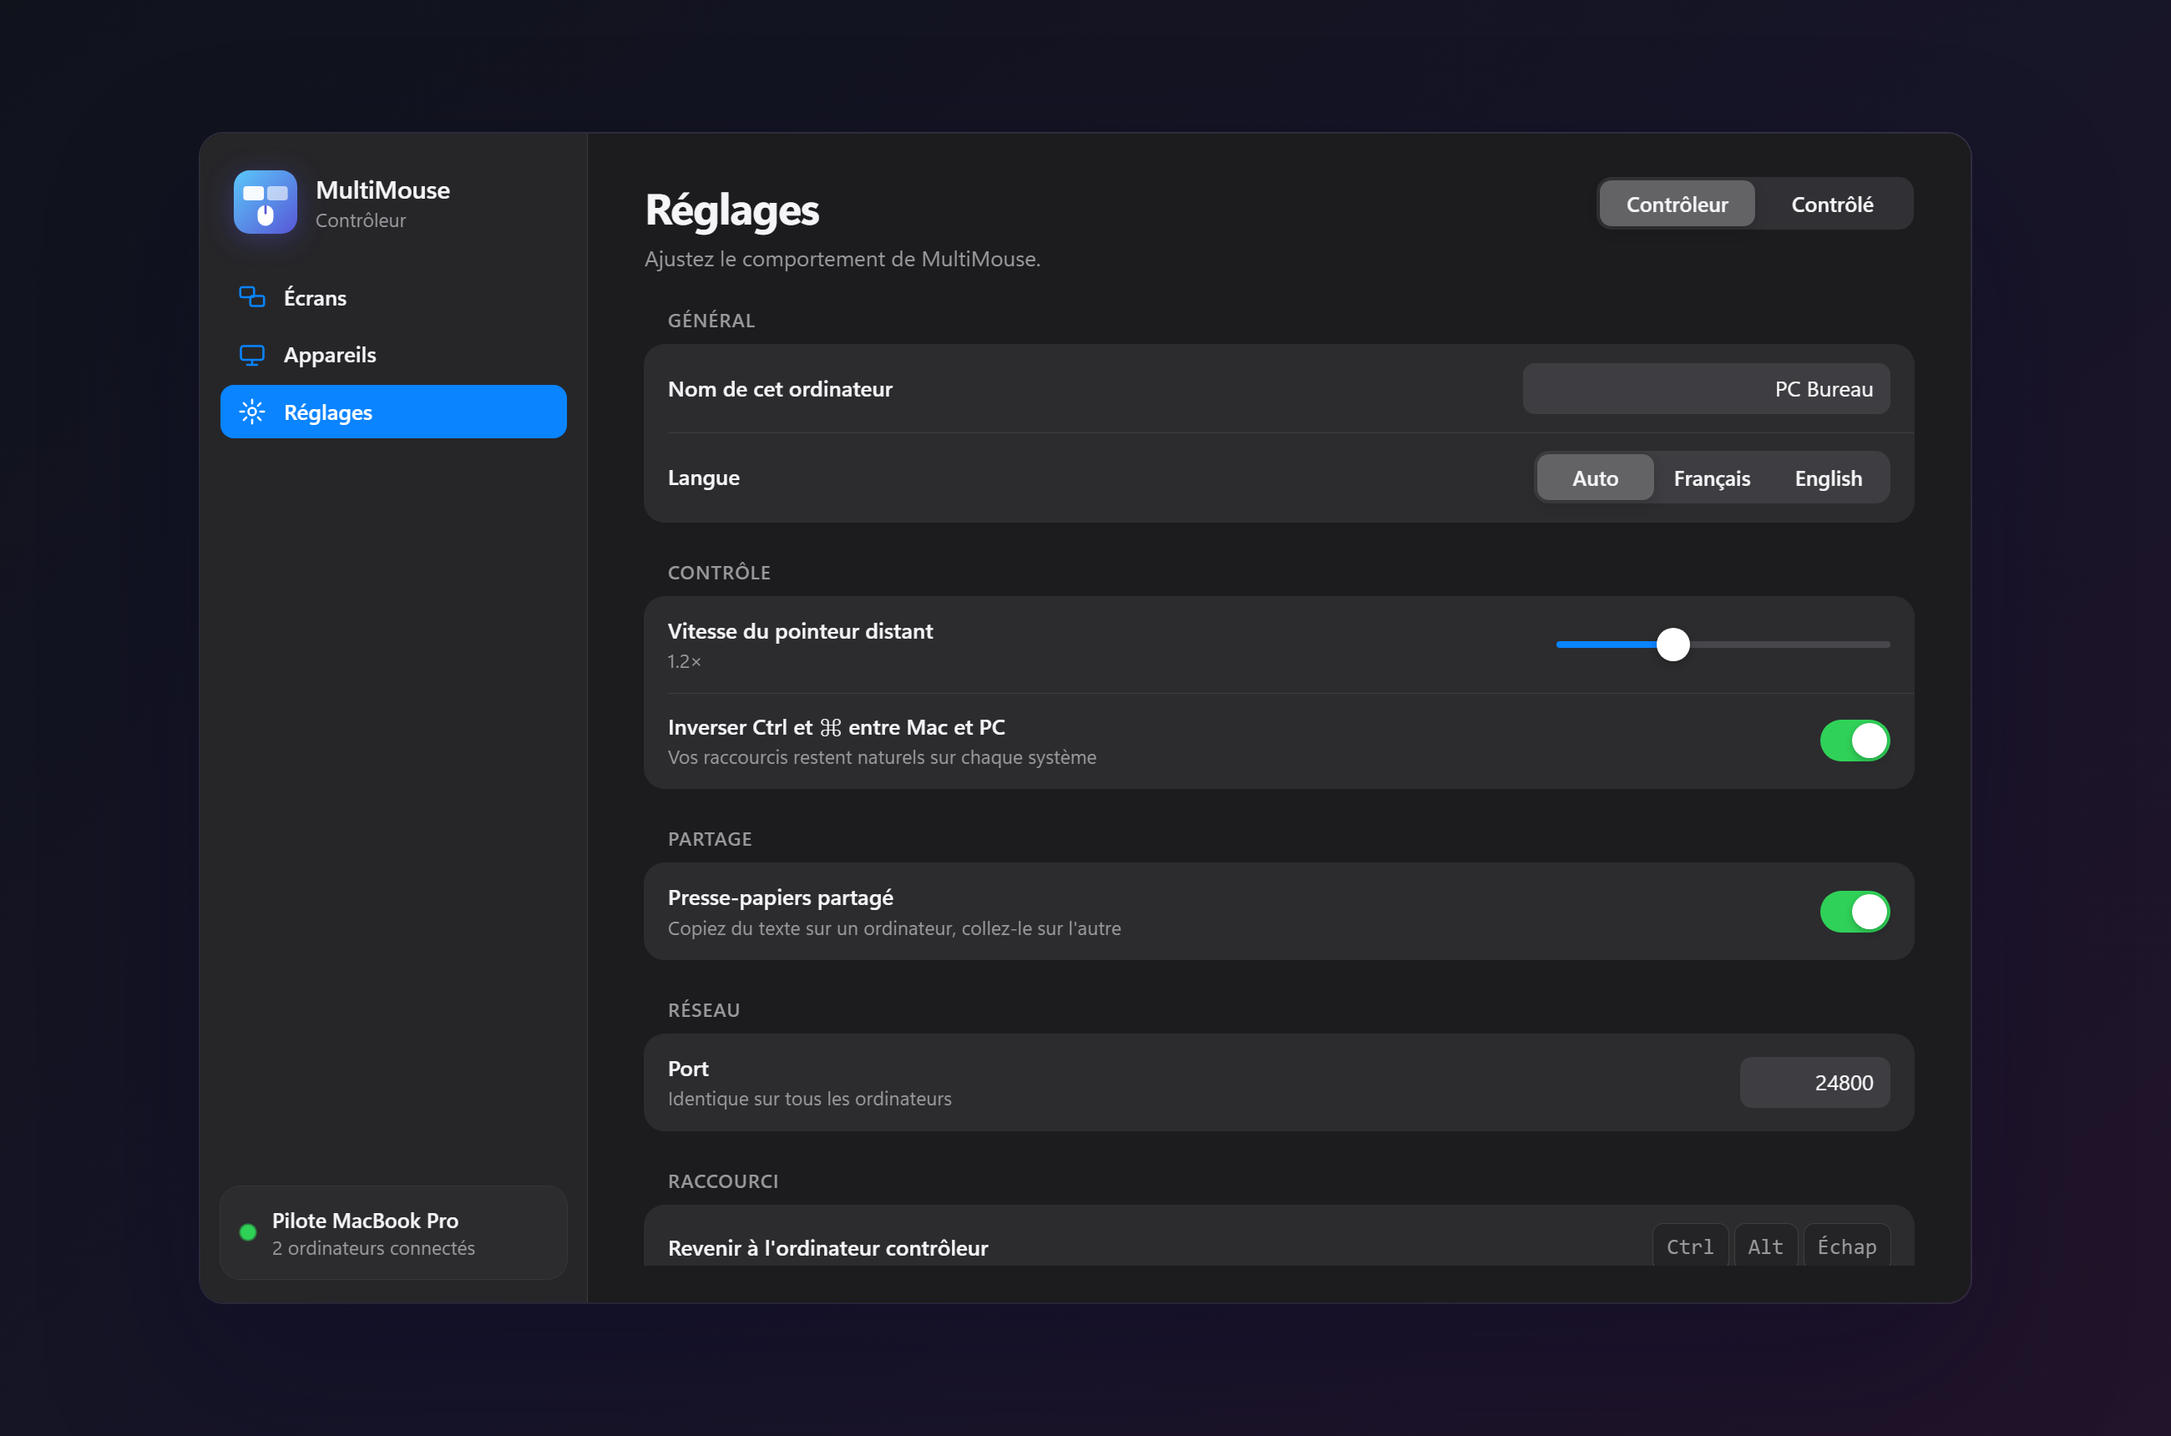
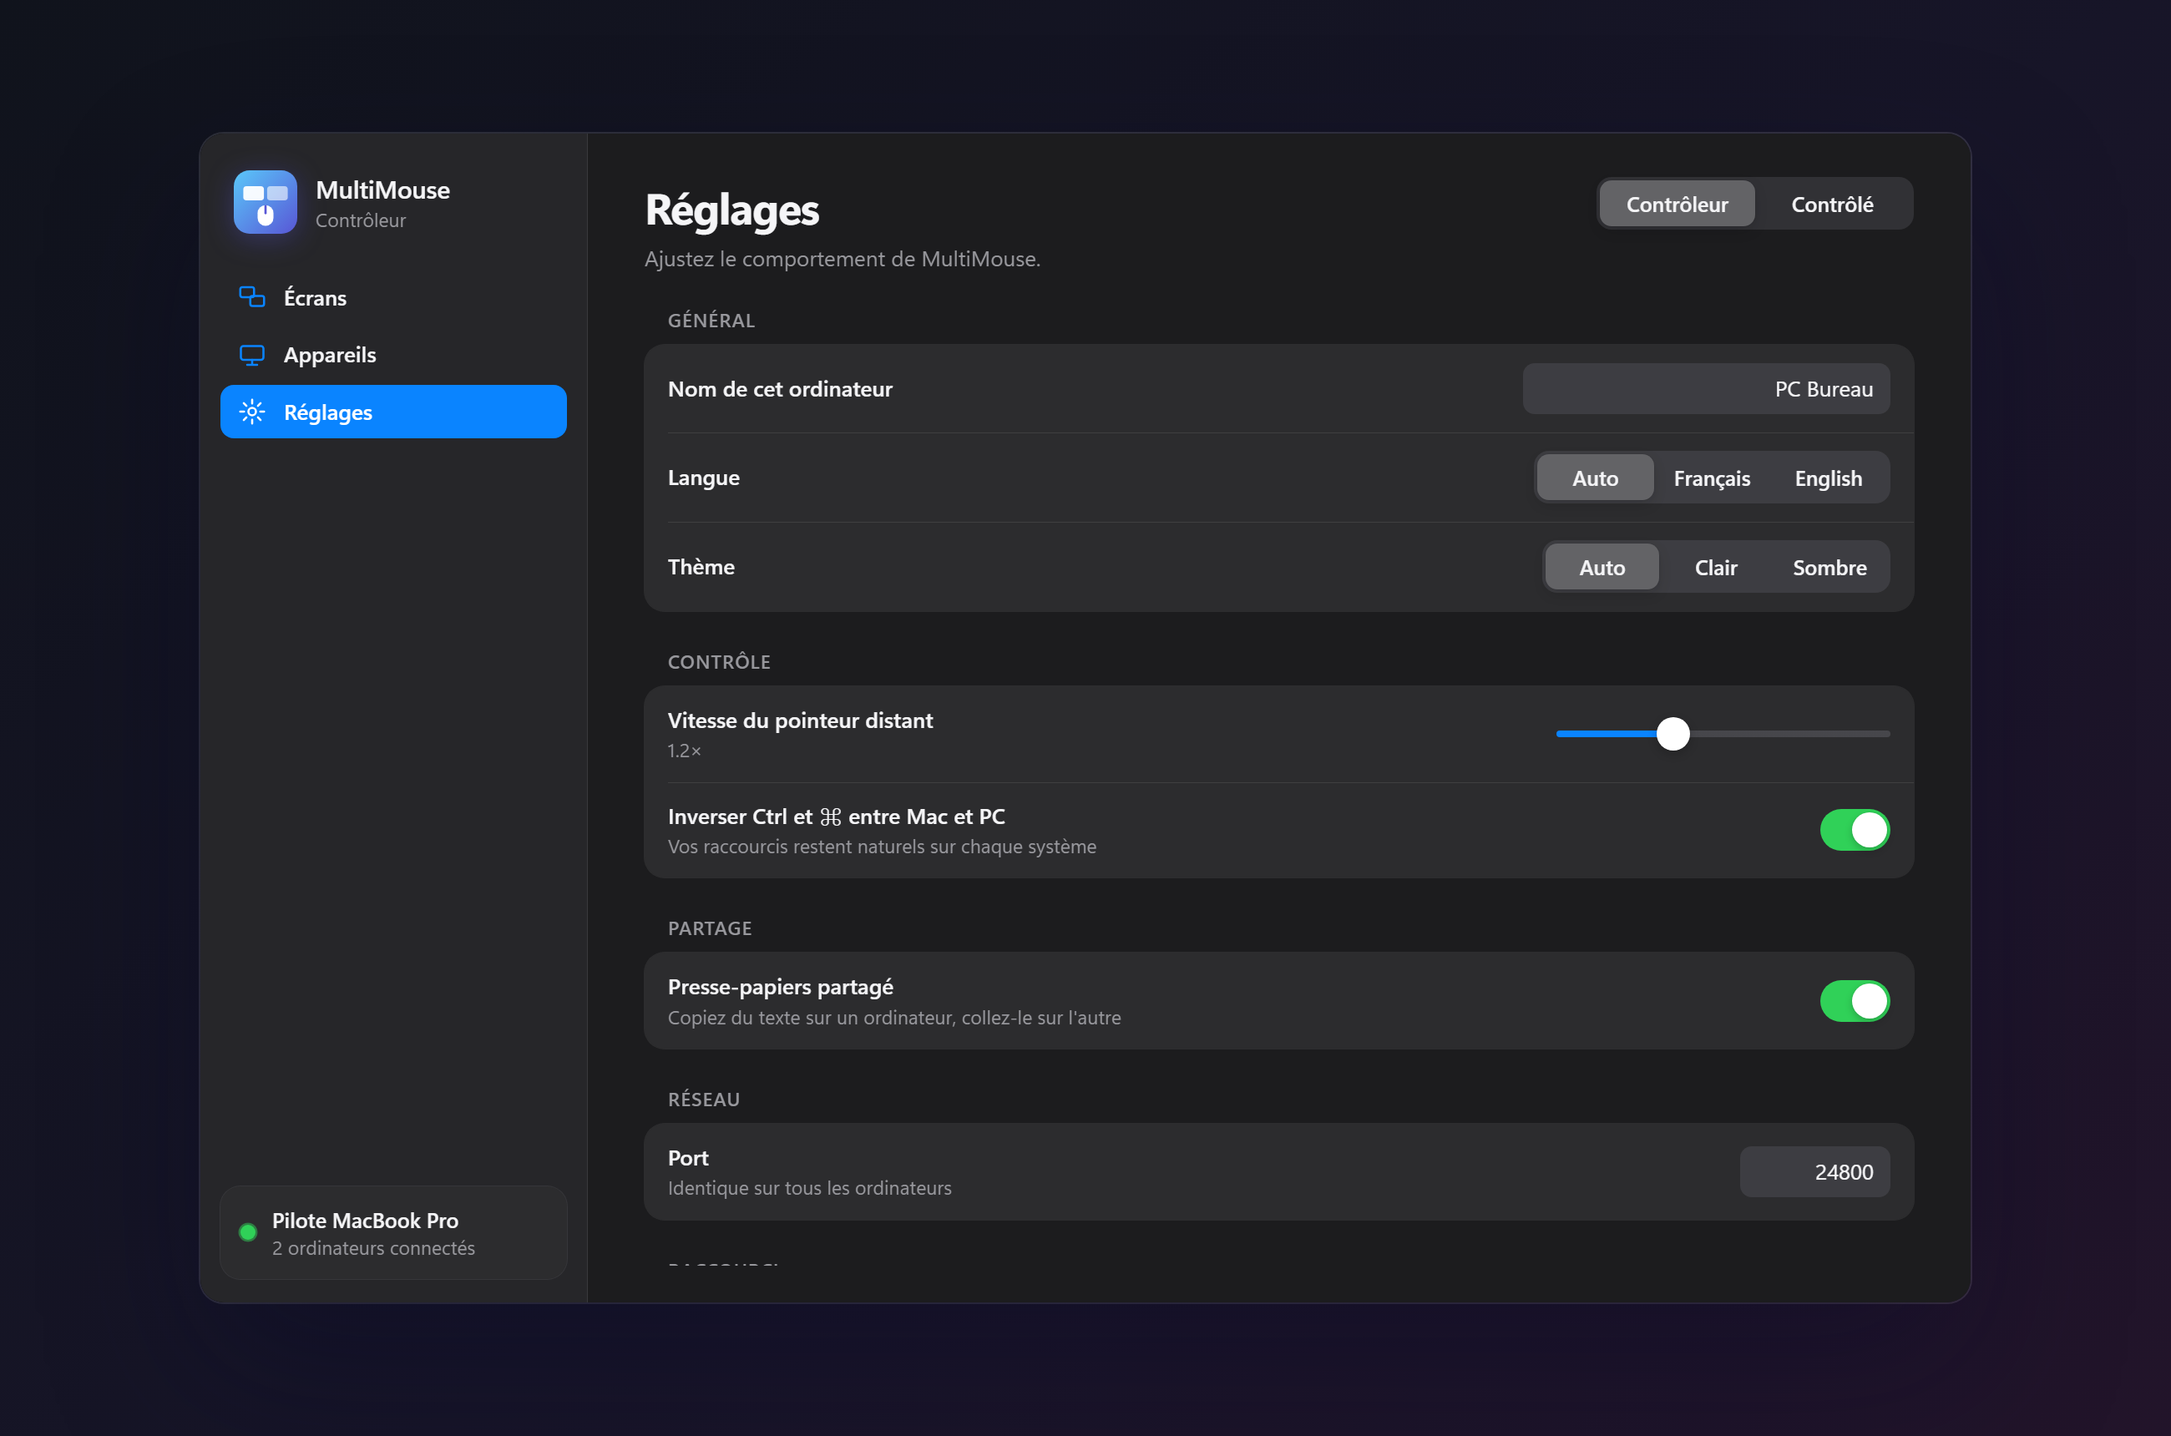
1.0.8: theme setting, run elevated so the pointer switches over admin windows
Windows does not pass input to a normal process's low-level hooks while an
administrator window is in front, so the pointer stopped switching (e.g. with
Claude running as admin) until a normal window was clicked. The installer now
registers a "MultiMouse" scheduled task with highest privileges; a normal
launch hands over to it (no UAC prompt) and falls back to running as before
if the task is missing.

Also: Appearance setting (Auto / Light / Dark), foreground app in the
capture watchdog log, screenshots with the new row.

diff --git a/multimouse/ui/app.js b/multimouse/ui/app.js
@@ -411,19 +411,57 @@ $("#in-speed").addEventListener("change", (e) => call("set_setting", "speed", pa
 /* ------------------------------------------------------------------ */
 /*  Render                                                             */
 /* ------------------------------------------------------------------ */
+/* Three-way choices (Auto / ... / ...): the thumb slides under the selected button. */
+function setSeg(sel, attr, value) {
+  const buttons = $$(sel + " button");
+  $(sel).dataset.index = Math.max(0, buttons.findIndex((b) => b.dataset[attr] === value));
+}
+
 $$("#lang-seg button").forEach((b) =>
   b.addEventListener("click", () => {
     if (!S || S.language === b.dataset.lang) return;
     S.language = b.dataset.lang;
-    $("#lang-seg").dataset.value = b.dataset.lang;
+    setSeg("#lang-seg", "lang", S.language);
     call("set_setting", "language", b.dataset.lang);  // Python answers with the resolved S.lang
+  })
+);
+
+/* Theme: the stylesheet's dark rules live in @media (prefers-color-scheme: dark) blocks.
+   Forcing a theme rewrites their media condition: "all" (always dark) or "not all" (never). */
+const DARK_MEDIA = "(prefers-color-scheme: dark)";
+let darkRules = null;
+function applyTheme(theme) {
+  if (!darkRules) {
+    darkRules = [];
+    for (const sheet of document.styleSheets) {
+      for (const r of sheet.cssRules) if (r.media && r.media.mediaText.includes("prefers-color-scheme: dark")) darkRules.push(r);
+    }
+  }
+  const media = theme === "dark" ? "all" : theme === "light" ? "not all" : DARK_MEDIA;
+  if (applyTheme.current === media) return;
+  const fade = applyTheme.current !== undefined;  // no cross-fade when the app opens
+  applyTheme.current = media;
+  if (fade) document.documentElement.classList.add("theme-switch");
+  for (const r of darkRules) r.media.mediaText = media;
+  if (fade) setTimeout(() => document.documentElement.classList.remove("theme-switch"), 450);
+}
+
+$$("#theme-seg button").forEach((b) =>
+  b.addEventListener("click", () => {
+    if (!S || S.theme === b.dataset.theme) return;
+    S.theme = b.dataset.theme;
+    setSeg("#theme-seg", "theme", S.theme);
+    applyTheme(S.theme);
+    call("set_setting", "theme", S.theme);
   })
 );
 
 function render() {
   if (!S) return;
   if (setLang(S.lang)) tiles.forEach((el) => (el._key = null));  // rebuild the translated badges
-  $("#lang-seg").dataset.value = S.language || "auto";
+  setSeg("#lang-seg", "lang", S.language || "auto");
+  setSeg("#theme-seg", "theme", S.theme || "auto");
+  applyTheme(S.theme || "auto");
   document.body.dataset.role = S.role;
   document.body.dataset.os = S.os;
   $("#role-seg").dataset.value = S.role;

diff --git a/multimouse/ui/style.css b/multimouse/ui/style.css
@@ -111,6 +111,10 @@ svg { display: block; }
 h1 { font-size: 26px; font-weight: 700; letter-spacing: -0.025em; }
 .subtitle { color: var(--text-2); font-size: 13px; margin-top: 3px; }
 
+.theme-switch *:not(.seg-thumb), .theme-switch *::before, .theme-switch *::after {
+  transition: background-color 0.4s var(--ease), color 0.4s var(--ease), border-color 0.4s var(--ease) !important;
+}
+
 /* ---------- segmented control ---------- */
 .segmented {
   position: relative; display: grid; grid-template-columns: 1fr 1fr;
@@ -127,8 +131,8 @@ h1 { font-size: 26px; font-weight: 700; letter-spacing: -0.025em; }
 .segmented.three { grid-template-columns: repeat(3, 1fr); }
 .segmented.three button { padding: 5px 12px; }
 .segmented.three .seg-thumb { width: calc((100% - 4px) / 3); }
-.segmented[data-value="fr"] .seg-thumb { transform: translateX(100%); }
-.segmented[data-value="en"] .seg-thumb { transform: translateX(200%); }
+.segmented.three[data-index="1"] .seg-thumb { transform: translateX(100%); }
+.segmented.three[data-index="2"] .seg-thumb { transform: translateX(200%); }
 @media (prefers-color-scheme: dark) { .seg-thumb { background: #636366; } }
 
 /* ---------- views ---------- */

diff --git a/multimouse/ui/i18n.js b/multimouse/ui/i18n.js
@@ -32,6 +32,7 @@ const STRINGS = {
 
     "set.general": "Général", "set.name": "Nom de cet ordinateur",
     "set.language": "Langue", "set.language.auto": "Auto",
+    "set.theme": "Thème", "set.theme.light": "Clair", "set.theme.dark": "Sombre",
     "set.control": "Contrôle", "set.speed": "Vitesse du pointeur distant",
     "set.swap": "Inverser Ctrl et ⌘ entre Mac et PC", "set.swap.sub": "Vos raccourcis restent naturels sur chaque système",
     "set.sharing": "Partage", "set.clip": "Presse-papiers partagé", "set.clip.sub": "Copiez du texte sur un ordinateur, collez-le sur l'autre",
@@ -105,6 +106,7 @@ const STRINGS = {
 
     "set.general": "General", "set.name": "Name of this computer",
     "set.language": "Language", "set.language.auto": "Auto",
+    "set.theme": "Appearance", "set.theme.light": "Light", "set.theme.dark": "Dark",
     "set.control": "Control", "set.speed": "Remote pointer speed",
     "set.swap": "Swap Ctrl and ⌘ between Mac and PC", "set.swap.sub": "Your shortcuts stay natural on each system",
     "set.sharing": "Sharing", "set.clip": "Shared clipboard", "set.clip.sub": "Copy text on one computer, paste it on another",

diff --git a/multimouse/ui/index.html b/multimouse/ui/index.html
@@ -150,6 +150,15 @@
               <button data-lang="en">English</button>
             </div>
           </div>
+          <div class="row">
+            <div class="row-text"><div class="row-title" data-i18n="set.theme">Thème</div></div>
+            <div class="segmented three" id="theme-seg">
+              <span class="seg-thumb"></span>
+              <button data-theme="auto" data-i18n="set.language.auto">Auto</button>
+              <button data-theme="light" data-i18n="set.theme.light">Clair</button>
+              <button data-theme="dark" data-i18n="set.theme.dark">Sombre</button>
+            </div>
+          </div>
         </div>
       </div>
 

diff --git a/tools/shot.html b/tools/shot.html
@@ -25,7 +25,7 @@ const role = q.get("role") || "server";
 const base = {
   version: "1.0.8", os: q.get("os") || "windows", id: "pc", name: "PC Bureau", code: "K7M4QX", port: 24800,
   server_host: "", clipboard: true, swap_ctrl_cmd: true, speed: 1.2, role, permissions: null,
-  language: q.get("lang") || "auto", lang: q.get("lang") || "fr",
+  language: q.get("lang") || "auto", lang: q.get("lang") || "fr", theme: q.get("apptheme") || "auto",
 };
 const server = {
   ...base, error: "", connected: 2, ips: ["192.168.1.20"],

diff --git a/multimouse/app.py b/multimouse/app.py
@@ -121,7 +121,7 @@ class Api:
         base = {"version": __version__, "os": pi.OS, "id": c["id"], "name": c["name"], "code": c["code"],
                 "port": c["port"], "server_host": c["server_host"], "clipboard": c["clipboard"],
                 "swap_ctrl_cmd": c["swap_ctrl_cmd"], "speed": c["speed"], "role": c["role"],
-                "permissions": self._perms, "language": c["language"],
+                "permissions": self._perms, "language": c["language"], "theme": c["theme"],
                 "lang": c["language"] if c["language"] in ("fr", "en") else system_language()}
         eng = self._engine
         if eng is not None:
@@ -136,7 +136,7 @@ class Api:
 
     def set_setting(self, key, value):
         allowed = {"clipboard": bool, "swap_ctrl_cmd": bool, "speed": float, "name": str,
-                   "server_host": str, "code": str, "port": int, "language": str}
+                   "server_host": str, "code": str, "port": int, "language": str, "theme": str}
         if key not in allowed:
             return False
         value = allowed[key](value)
@@ -149,6 +149,8 @@ class Api:
         if key == "speed":
             value = min(max(value, 0.3), 3.0)
         if key == "language" and value not in ("auto", "fr", "en"):
+            return False
+        if key == "theme" and value not in ("auto", "light", "dark"):
             return False
         self._cfg.set(**{key: value})
         if key in ("code", "port", "clipboard"):
@@ -198,6 +200,7 @@ class Api:
 
 
 MUTEX_NAME = "MultiMouseSingleInstance"  # also referenced by installer/MultiMouse.iss (AppMutex)
+ELEVATED_TASK = "MultiMouse"  # scheduled task registered by installer/MultiMouse.iss
 
 
 def _already_running():
@@ -205,16 +208,72 @@ def _already_running():
     if pi.OS != "windows":
         return False
     import ctypes
-    k32 = ctypes.windll.kernel32
+    import time
+    k32 = _already_running.k32 = ctypes.WinDLL("kernel32")  # private: argtypes must not leak into pynput
     k32.CreateMutexW.restype = ctypes.c_void_p
-    _already_running.handle = k32.CreateMutexW(None, False, MUTEX_NAME)
-    if k32.GetLastError() != 183:  # ERROR_ALREADY_EXISTS
-        return False
+    k32.CloseHandle.argtypes = [ctypes.c_void_p]
+    # Started by _relaunch_elevated: the launcher may still hold the mutex for a moment
+    tries = 30 if "--elevated" in sys.argv else 1
+    for i in range(tries):
+        _already_running.handle = k32.CreateMutexW(None, False, MUTEX_NAME)
+        # ERROR_ALREADY_EXISTS, or ERROR_ACCESS_DENIED when the running one has administrator rights
+        if k32.GetLastError() not in (183, 5):
+            return False
+        if i < tries - 1:
+            if _already_running.handle:
+                k32.CloseHandle(_already_running.handle)
+            time.sleep(0.1)
     hwnd = pi.user32.FindWindowW(None, APP_NAME)
     if hwnd:
         pi.user32.ShowWindow(hwnd, 9)  # SW_RESTORE
         pi.user32.SetForegroundWindow(hwnd)
     return True
+
+
+def _relaunch_elevated():
+    """Windows: run again with administrator rights, through the scheduled task the installer
+    registered (it runs elevated without a UAC prompt). Returns True when this process should quit.
+
+    Windows does not pass the mouse to the hooks of a normal process while a window running as
+    administrator is in front (Task Manager, or any app started as administrator): the pointer
+    then stops switching until a normal window is clicked."""
+    if pi.OS != "windows" or not getattr(sys, "frozen", False) or "--elevated" in sys.argv:
+        return False
+    import ctypes
+    import subprocess
+    import time
+    from .config import config_dir
+    if ctypes.windll.shell32.IsUserAnAdmin():
+        return False
+    try:  # the task has fixed arguments: pass this launch's options through a file
+        with open(os.path.join(config_dir(), "launch.json"), "w", encoding="utf-8") as f:
+            json.dump({"minimized": "--minimized" in sys.argv, "time": time.time()}, f)
+        r = subprocess.run(["schtasks", "/run", "/tn", ELEVATED_TASK], capture_output=True,
+                           creationflags=0x08000000)  # CREATE_NO_WINDOW
+    except OSError:
+        return False
+    if r.returncode != 0:
+        return False
+    _already_running.k32.CloseHandle(_already_running.handle)  # let it start now
+    return True
+
+
+def _launch_options():
+    """Options of the launch that handed over to the elevated task (see _relaunch_elevated)."""
+    opts = {"minimized": "--minimized" in sys.argv}
+    if "--elevated" in sys.argv:
+        import time
+        from .config import config_dir
+        path = os.path.join(config_dir(), "launch.json")
+        try:
+            with open(path, encoding="utf-8") as f:
+                saved = json.load(f)
+            os.remove(path)
+            if time.time() - saved.get("time", 0) < 30:
+                opts["minimized"] = bool(saved.get("minimized"))
+        except (OSError, ValueError):
+            pass
+    return opts
 
 
 def _setup_logging():
@@ -235,9 +294,15 @@ def _setup_logging():
 
 
 def main():
-    if _already_running():
+    if _already_running() or _relaunch_elevated():
         return
     _setup_logging()
+    if pi.OS == "windows":
+        import ctypes
+        if not ctypes.windll.shell32.IsUserAnAdmin():
+            logging.getLogger("multimouse").warning(
+                "sans droits administrateur : le pointeur ne passera pas tant qu'une fenêtre administrateur est devant")
+    opts = _launch_options()
     import webview
 
     api = Api()
@@ -254,7 +319,7 @@ def main():
         width=int(1060 * k), height=int(700 * k), min_size=(int(880 * k), int(580 * k)),
         background_color="#F5F5F7",
         text_select=False,
-        minimized="--minimized" in sys.argv,  # used by the "start with Windows" shortcut
+        minimized=opts["minimized"],  # used by the "start with Windows" shortcut
     )
     api._window = window
 

diff --git a/multimouse/platform_input.py b/multimouse/platform_input.py
@@ -37,6 +37,8 @@ if OS == "windows":  # private handle: pseudo-handles need a pointer-sized retur
     _k32.SetPriorityClass.argtypes = [wintypes.HANDLE, wintypes.DWORD]
     _k32.SetThreadPriority.argtypes = [wintypes.HANDLE, ctypes.c_int]
     _k32.SetProcessInformation.argtypes = [wintypes.HANDLE, ctypes.c_int, ctypes.c_void_p, wintypes.DWORD]
+    _k32.OpenProcess.restype = wintypes.HANDLE
+    _k32.CloseHandle.argtypes = [wintypes.HANDLE]
 
 
 def _keep_awake():
@@ -284,6 +286,25 @@ LLMHF_INJECTED = 0x01
 _WIN_BUTTONS = {WM_LBUTTONDOWN: ("left", True), WM_LBUTTONUP: ("left", False),
                 WM_RBUTTONDOWN: ("right", True), WM_RBUTTONUP: ("right", False),
                 WM_MBUTTONDOWN: ("middle", True), WM_MBUTTONUP: ("middle", False)}
+
+
+def foreground_app():
+    """Windows: executable name of the window in front (for the log), or ''."""
+    if OS != "windows":
+        return ""
+    try:
+        import os
+        pid = wintypes.DWORD()
+        user32.GetWindowThreadProcessId(user32.GetForegroundWindow(), ctypes.byref(pid))
+        h = _k32.OpenProcess(0x1000, False, pid.value)  # PROCESS_QUERY_LIMITED_INFORMATION
+        if not h:
+            return "?"
+        buf, size = ctypes.create_unicode_buffer(260), wintypes.DWORD(260)
+        ok = _k32.QueryFullProcessImageNameW(h, 0, buf, ctypes.byref(size))
+        _k32.CloseHandle(h)
+        return os.path.basename(buf.value) if ok else "?"
+    except Exception:
+        return "?"
 
 
 def _signed16(v):

diff --git a/multimouse/engine.py b/multimouse/engine.py
@@ -134,7 +134,7 @@ class ServerEngine:
                 quiet = time.monotonic() - self.capture.last_event > 1.5
                 recent_warp = time.monotonic() - self.last_switch < 2.0
                 if not self.capture.alive() or (quiet and last_pos and pos != last_pos and not recent_warp):
-                    log.warning("capture de la souris inactive : réinstallation des hooks")
+                    log.warning("capture de la souris inactive (devant : %s) : réinstallation des hooks", pi.foreground_app())
                     self.capture.restart()
                 last_pos = pos
             except Exception:

diff --git a/multimouse/config.py b/multimouse/config.py
@@ -21,6 +21,7 @@ DEFAULTS = {
     "swap_ctrl_cmd": True,       # map Ctrl <-> Cmd when crossing Windows <-> Mac
     "speed": 1.0,                # remote pointer speed multiplier
     "autostart": False,
+    "theme": "auto",             # "auto" (system), "light" or "dark"
     "language": "auto",          # "auto" (system language), "fr" or "en"
 }
 
